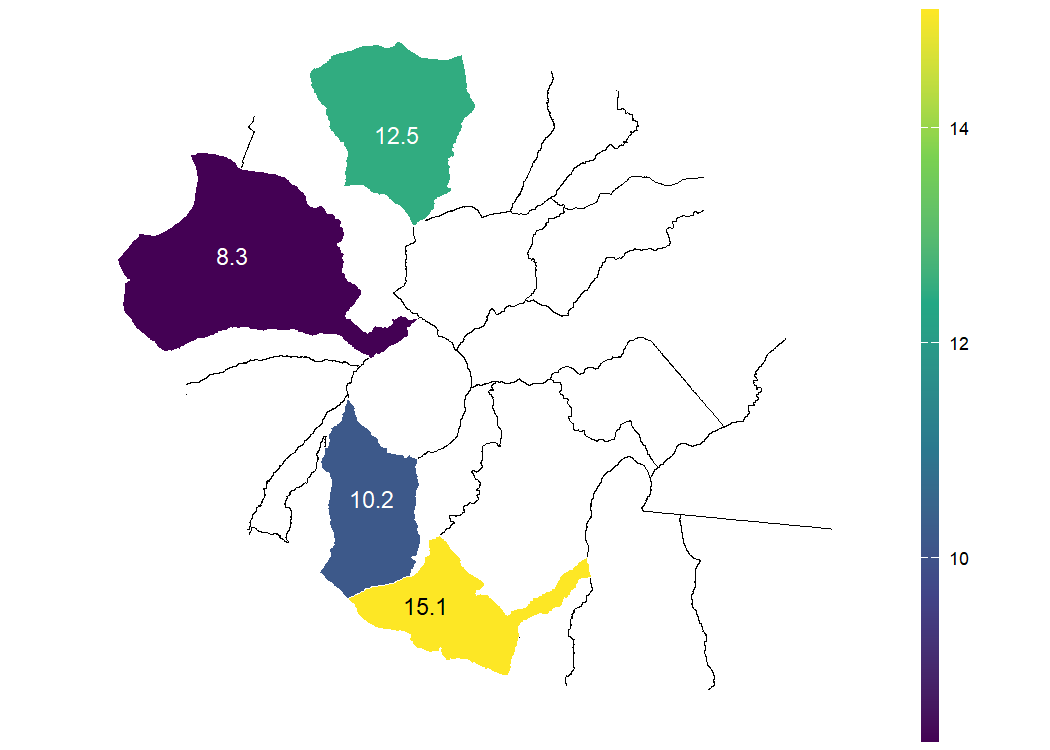
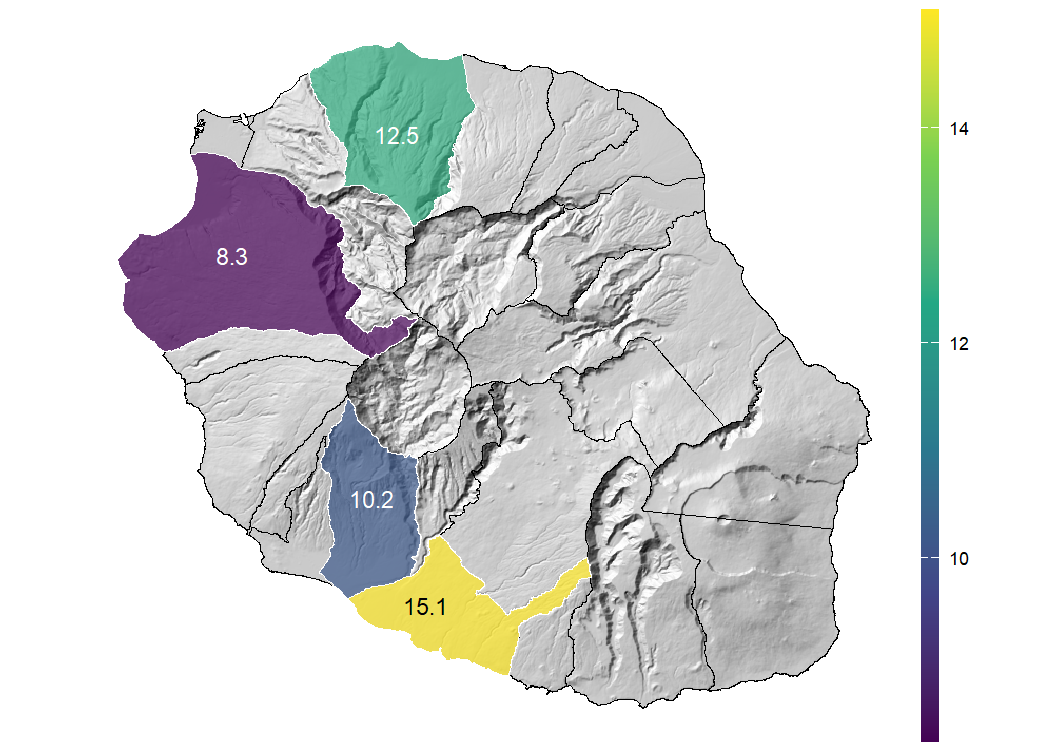
modification mineures de la documentation de save_plot_bg(), de l' ordre de rendu des couches de carto_974() et du README

diff --git a/README.md b/README.md
@@ -218,7 +218,7 @@ leaflet::leaflet() |>
                       icon = my_markers[names(list_col)])
 ```
 
-    #> file:///C:/Users/Delagarde/AppData/Local/Temp/Rtmp6H4gPH/file4f18ea13225.html screenshot completed
+    #> file:///C:/Users/Delagarde/AppData/Local/Temp/RtmpmmVHbr/file4c98477d6349.html screenshot completed
 
 <img src="man/figures/README-leaflet-capture-1.png" alt="" width="100%" />
 
@@ -237,7 +237,8 @@ correspondant est accessible ; l’exemple ci-dessous s’en passe.
 communes <- data.frame(code_insee = c("97411", "97415", "97416", "97414"),
                        taux       = c(12.5, 8.3, 15.1, 10.2))
 
-res <- carto_974(communes, col.fill = "taux", .ombrage = FALSE, .label = TRUE)
+res <- carto_974(communes, col.fill = "taux", .label = TRUE)
+#> <SpatRaster> resampled to 500850 cells.
 res[[1]]
 ```
 
@@ -281,7 +282,7 @@ p <- ggplot(mtcars, aes(wt, mpg, color = factor(cyl))) +
 url_img <- "http://mathworld.wolfram.com/images/gifs/rabbduck.jpg"
 
 save_plot_bg(p, "man/figures/README-plot-bg.png", image_path = url_img,
-             width = 6, height = 4)
+             width = 6, height = 4, x = 0.7, y = 0.3)
 knitr::include_graphics("man/figures/README-plot-bg.png")
 ```
 
